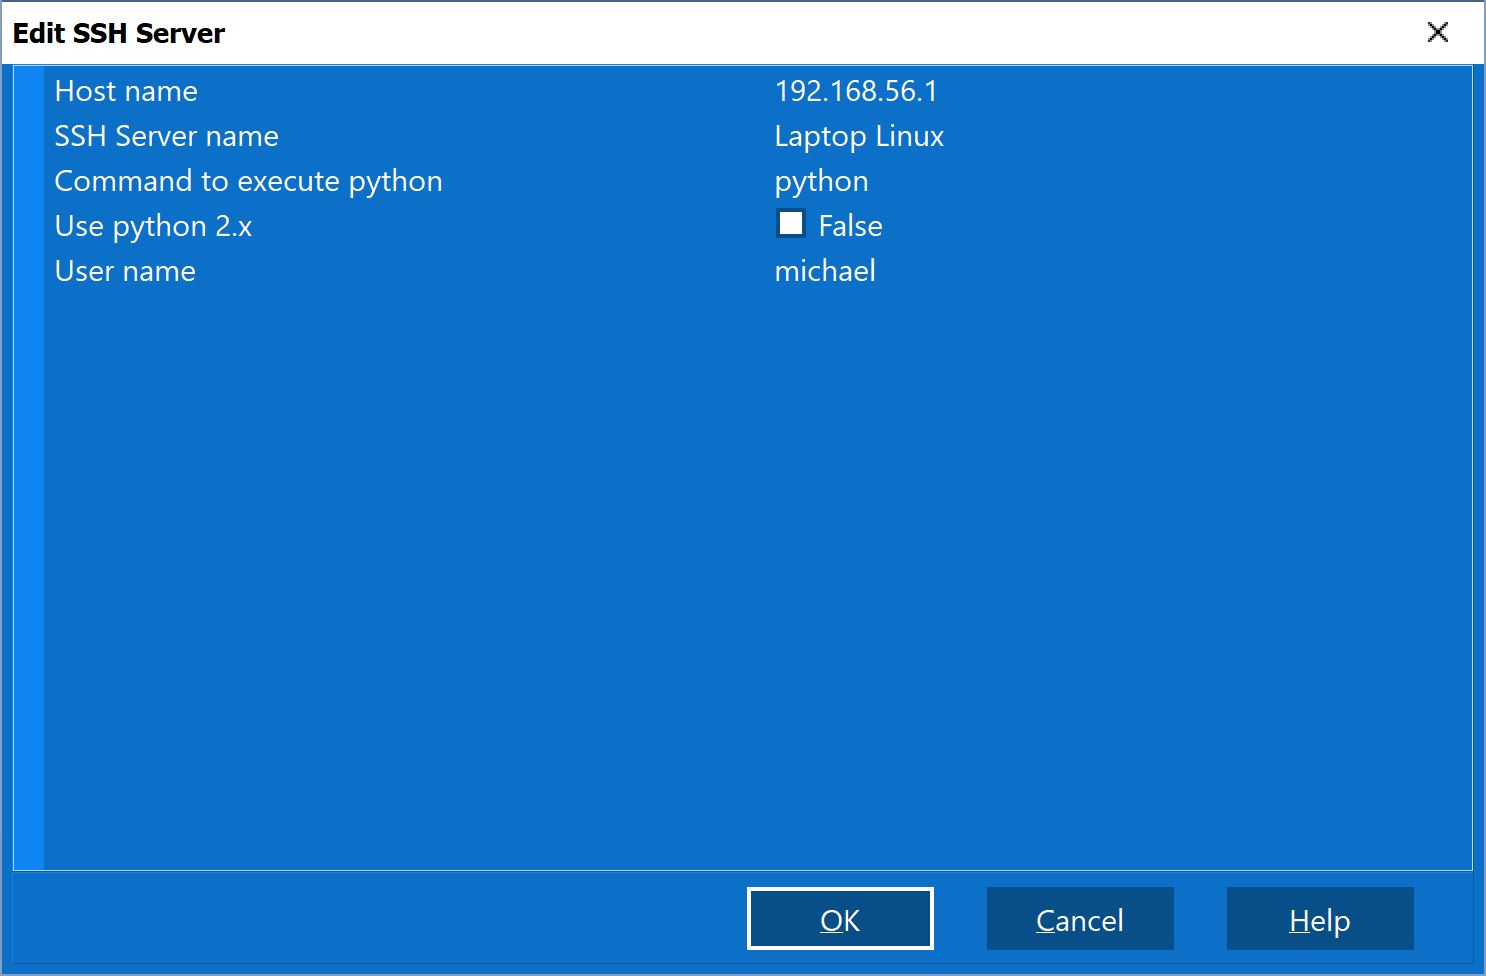
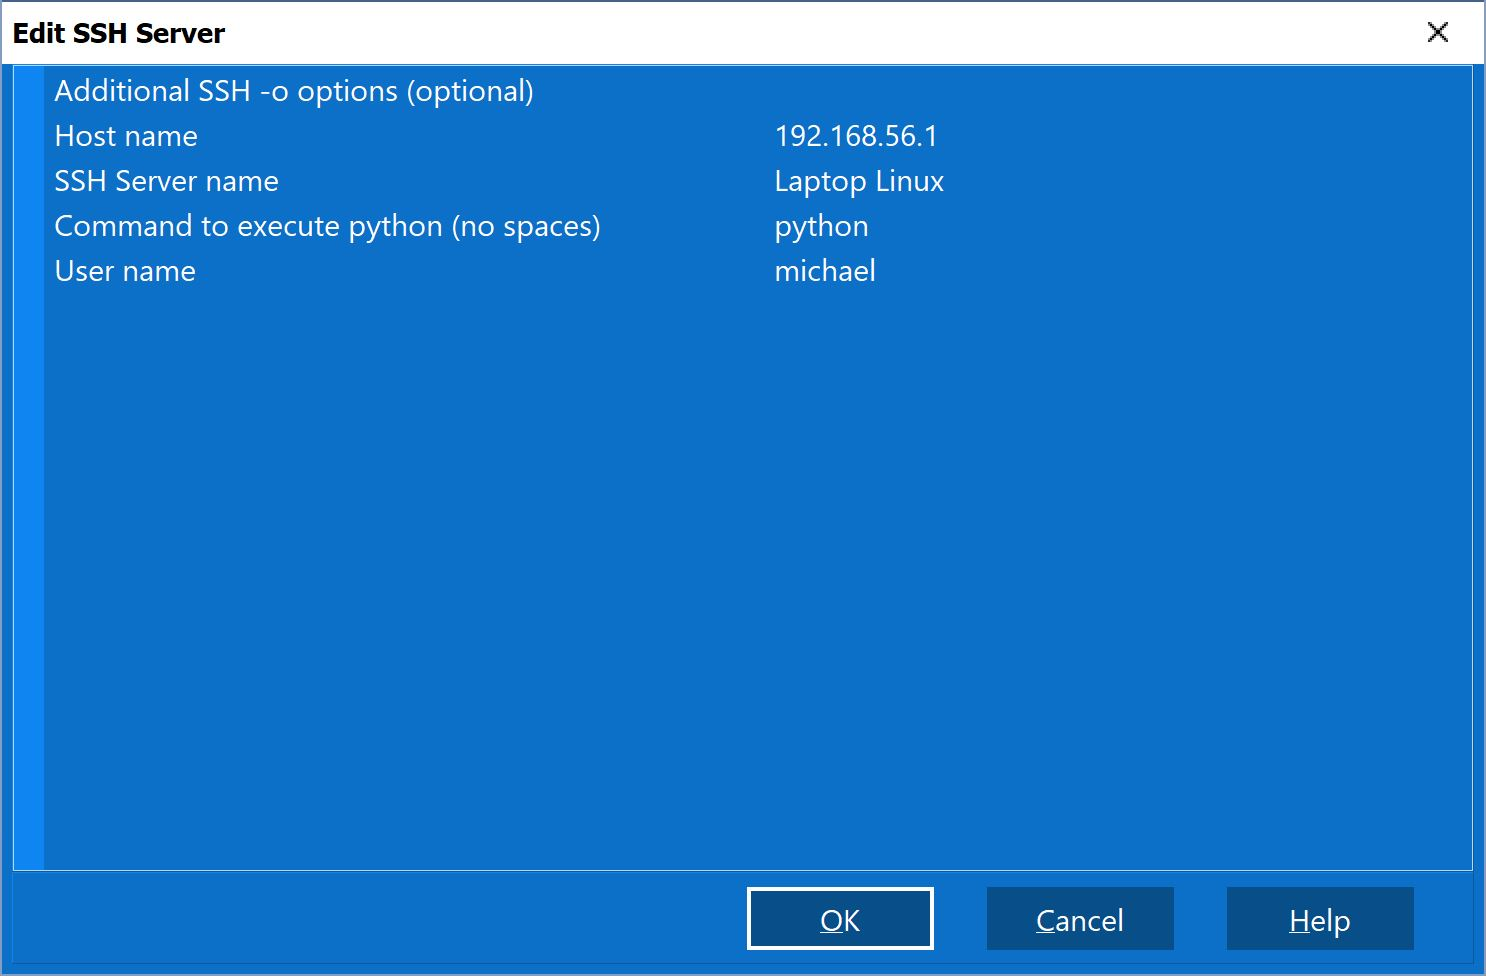
Updated help files Added donate button

Changed region(s): [[0.031, 0.0615, 0.4024, 0.2459], [0.4953, 0.0615, 0.6501, 0.2459]]

diff --git a/Help/Source/ideoptions.htm b/Help/Source/ideoptions.htm
@@ -4,6 +4,13 @@
 <title>IDE Options</title>
 <meta content="HelpMaker.net" name="generator" />
 <meta content="IDE options,IDECustomization" name="keywords" />
+<style type="text/css">
+.auto-style1 {
+	font-family: Arial;
+	font-size: 10pt;
+	color: #010101;
+}
+</style>
 </head>
 
 <body bgcolor="#FFFCEA">
@@ -643,6 +650,22 @@
 	</div>
 <div align="left">
 	<font color="#010101" face="Arial" size="2">
+	<span style="font-size: 10pt; font-family: Arial; color: #010101"><i>Always 
+	use sockets</i></span></font></div>
+<div align="left">
+	<font color="#010101" face="Arial" size="2">
+	<span style="font-size: 10pt; font-family: Arial; color: #010101">Pyscripter 
+	can use sockets or Windows named pipes for communicating with server.&nbsp; 
+	Named pipes can only be used in
+	<a href="https://github.com/mhammond/pywin32">pywin32</a> is installed in 
+	the active python version.&nbsp; The main advantage of named pipes is that 
+	it avoids firewall issues related to socket connections.&nbsp; If this 
+	option is checked sockets are used in preference to named pipes. (default 
+	true)</span></font></div>
+<div align="left">
+	</div>
+<div align="left">
+	<font color="#010101" face="Arial" size="2">
 	<span style="font-size: 10pt; font-family: Arial; color: #010101"><i>Clear output 
 	before run</i></span></font></div>
 <div align="left">
@@ -795,6 +818,48 @@
 	it adds a menu item &quot;Edit with Pyscripter&quot; to the Windows File Explorer 
 	context menu for Python files.&nbsp; If unchecked this option removes such context 
 	menu if it is present.</span></font></div>
+<div align="left">
+	</div>
+<div align="left">
+	<font color="#010101" face="Arial" size="2">
+	<span style="font-size: 10pt; font-family: Arial; color: #010101"><b>SSH</b></span></font></div>
+<div align="left">
+	</div>
+<div align="left">
+	<font color="#010101" face="Arial" size="2">
+	<span style="font-size: 10pt; font-family: Arial; color: #010101"><i>Disable 
+	Variables Window with SSH</i></span></font></div>
+<div align="left">
+	<font color="#010101" face="Arial" size="2">
+	<span style="font-size: 10pt; font-family: Arial; color: #010101">The 
+	updating of the <a href="variableswindow.htm">Variables window</a> requires 
+	data transers between PyScripter and remote Python Engines.&nbsp; With slow 
+	SSH connections this could slow down PyScipter.&nbsp; If checked, 
+	the Variables Window is desabled while using an SSH engine.</span></font></div>
+<div align="left">
+	</div>
+<div align="left">
+	<font color="#010101" face="Arial" size="2">
+	<span style="font-size: 10pt; font-family: Arial; color: #010101"><i>Scp 
+	command</i></span></font></div>
+<div align="left" class="auto-style1">
+	This option allows you to specify a path to an scp command.&nbsp; This could 
+	be useful if you have multiple versions of scp installed and want to specify 
+	which one to use.&nbsp; The defalut value 'scp' assumes scp can be found on 
+	the system path.</div>
+<div align="left">
+	</div>
+<div align="left">
+	<font color="#010101" face="Arial" size="2">
+	<span style="font-size: 10pt; font-family: Arial; color: #010101"><i>SSH 
+	command</i></span></font></div>
+<div align="left" class="auto-style1">
+	This option allows you to specify a path to an ssh command.&nbsp; This could 
+	be useful if you have multiple versions of ssh installed and want to specify 
+	which one to use.&nbsp; The defalut value 'ssh' assumes ssh can be found on 
+	the system path.</div>
+<div align="left">
+	</div>
 
 </body>
 

diff --git a/Help/Source/editorshortcuts.htm b/Help/Source/editorshortcuts.htm
@@ -16,6 +16,12 @@
 	border-color: inherit;
 	border-width: medium;
 }
+.auto-style3 {
+	font-family: Arial;
+	font-size: 10pt;
+	color: #010101;
+	border: 1px solid #010101;
+}
 </style>
 </head>
 
@@ -191,6 +197,40 @@
 				<font color="#010101" face="Arial" size="2">
 				<span style="font-size: 10pt; font-family: Arial; color: #010101">
 				Copy selection to Clipboard</span></font></div>
+			</td>
+		</tr>
+		<tr>
+			<td height="32" style="border: solid #010101 1px;" valign="top">
+			<div align="left">
+				<font color="#010101" face="Arial" size="2">
+				<span style="font-size: 10pt; font-family: Arial; color: #010101">
+				Copy Line Down</span></font></div>
+			</td>
+			<td height="32" valign="top" class="auto-style3">
+			Shft+Alt+Down</td>
+			<td height="32" style="border: solid #010101 1px;" valign="top">
+			<div align="left">
+				<font color="#010101" face="Arial" size="2">
+				<span style="font-size: 10pt; font-family: Arial; color: #010101">
+				Copy </span></font>
+				<span class="auto-style1">line(s) down</span></div>
+			</td>
+		</tr>
+		<tr>
+			<td height="32" style="border: solid #010101 1px;" valign="top">
+			<div align="left">
+				<font color="#010101" face="Arial" size="2">
+				<span style="font-size: 10pt; font-family: Arial; color: #010101">
+				Copy Line Up</span></font></div>
+			</td>
+			<td height="32" valign="top" class="auto-style3">
+			Shft+Alt+Up</td>
+			<td height="32" style="border: solid #010101 1px;" valign="top">
+			<div align="left">
+				<font color="#010101" face="Arial" size="2">
+				<span style="font-size: 10pt; font-family: Arial; color: #010101">
+				Copy </span></font>
+				<span class="auto-style1">line(s) up</span></div>
 			</td>
 		</tr>
 		<tr>

diff --git a/Help/Source/remotefiles.htm b/Help/Source/remotefiles.htm
@@ -108,10 +108,12 @@
 	<img alt="graphic" border="0" src="editsshserverdialog.JPG" style="width:37.15em; height:24.40em"></div>
 
 <div align="left" class="auto-style2"><br><br>For each SSH server you need to 
-	provide a Name that will be used to identify the server, as well as the user 
+	provide a Name that will be used to identify the SSH server, as well as the user 
 	name and host name (or IP address) that will be used to connect to the 
 	server.&nbsp; You also need to provide the command that will be used to 
-	execute Python on the server.<br><br>
+	execute Python on the server. Optionally you can provide additional SSH -o 
+	options that will be passed to the ssh and scp commands.&nbsp; For standard 
+	use leave this field empty.<br><br>
 	<br>
 	</div>
 	
